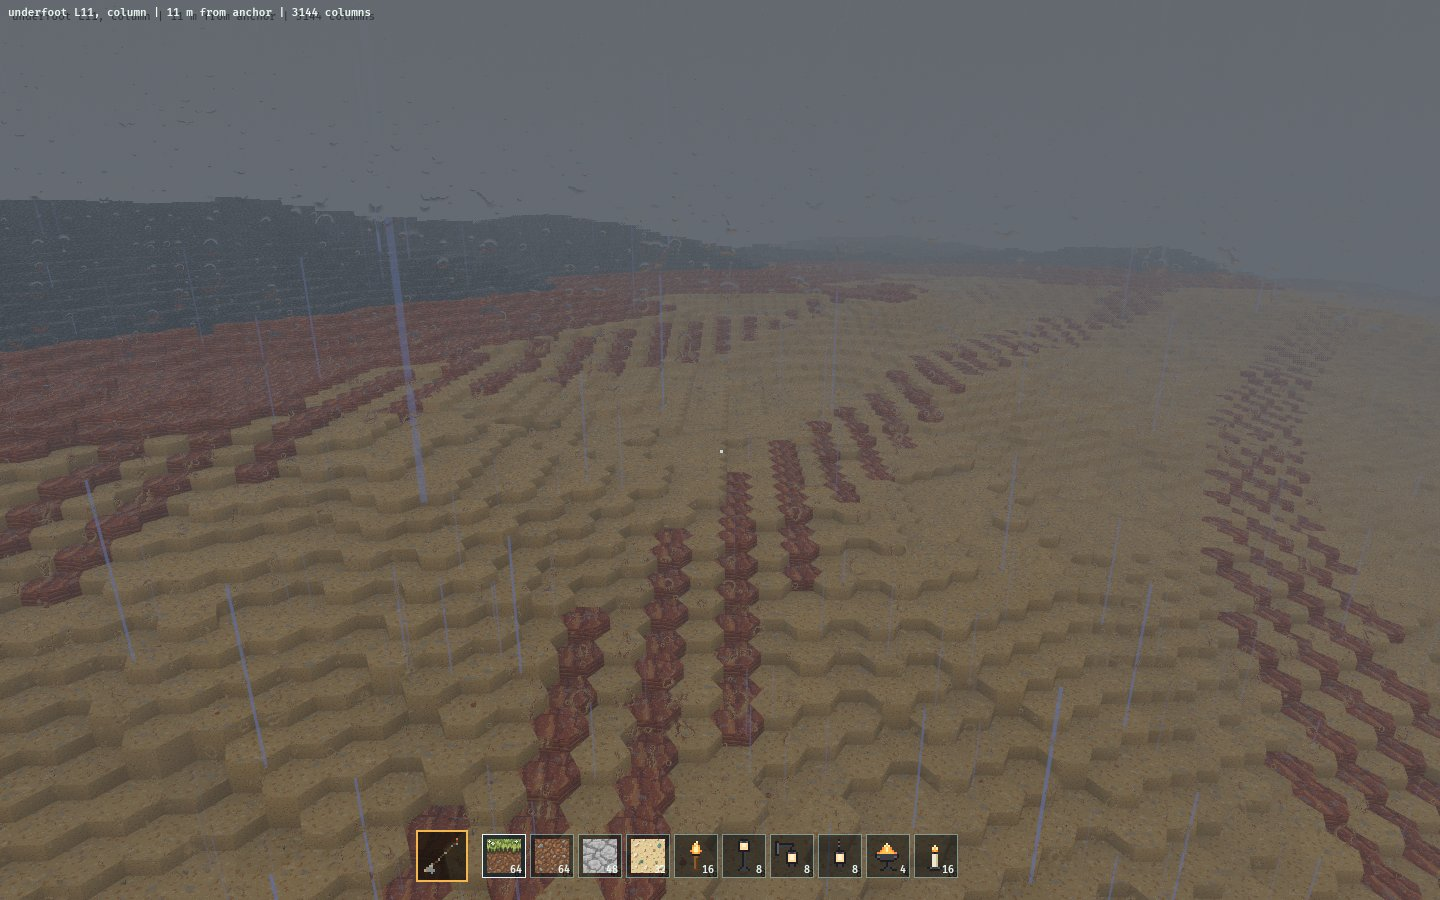
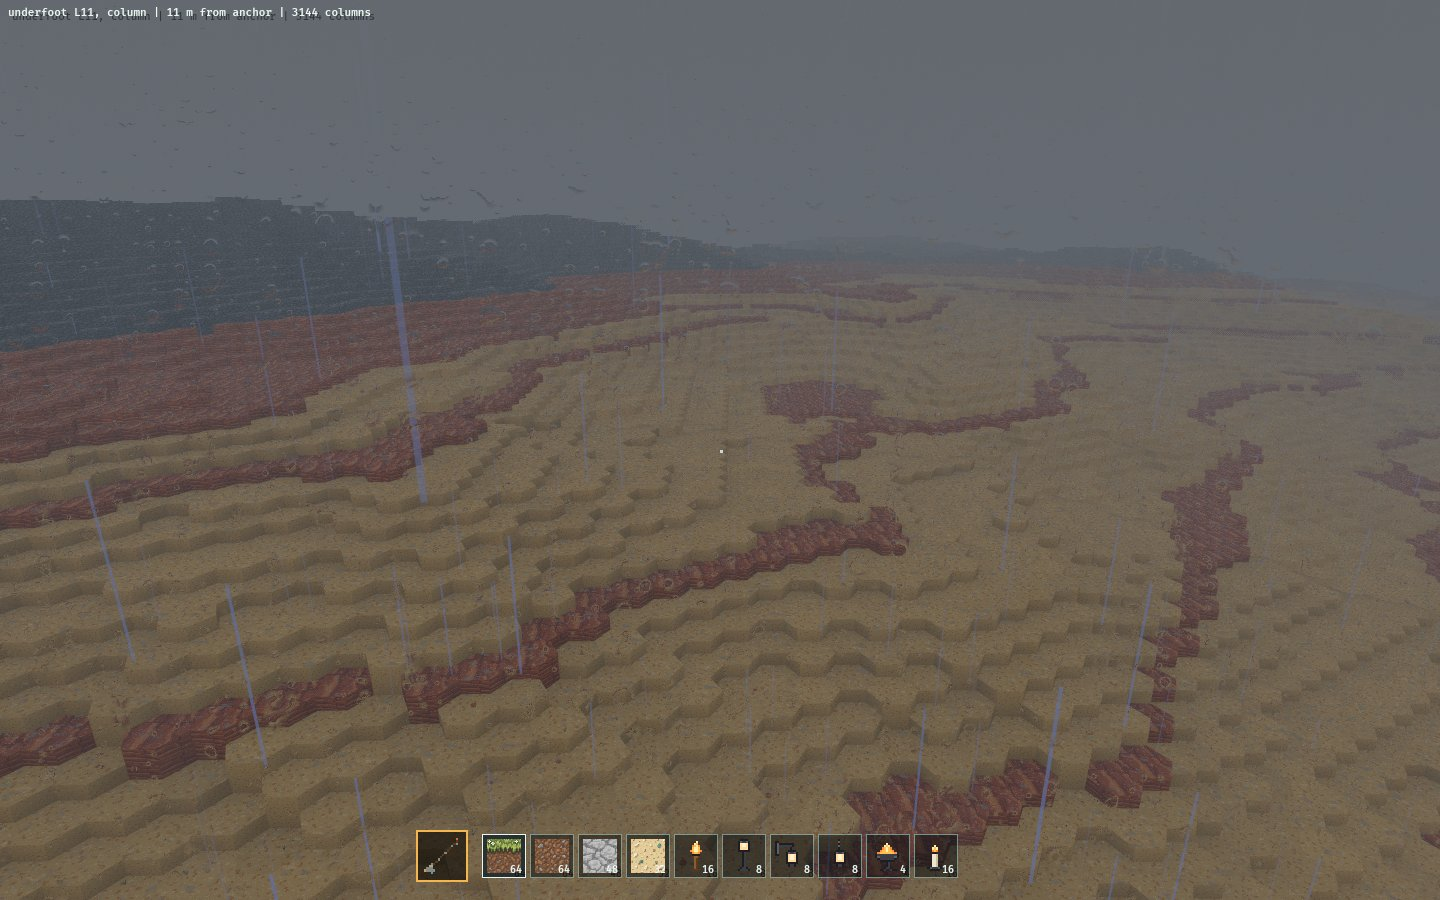
bigger-biomes 3.4: the contour rock in the game, and the spec synced
docs/screenshots/bigger-biomes/: the desert from 40 m and the spawn's
view before (rock in straight east-west bands, kept as *-latitude.jpg)
and after (one metre of rock in every seven of height, wrapping each
terrace), and the spawn's continent on the map at 4 m a pixel, where the
rock reads as contour lines round every hill. The scenario "Rock follows
the contours" is synced into openspec/specs/world/terrain with its two
tests.

Claude-Session: https://claude.ai/code/session_01SztpvFkncDFbmhJsds55PW

diff --git a/docs/screenshots/bigger-biomes/README.md b/docs/screenshots/bigger-biomes/README.md
@@ -24,7 +24,7 @@ What moves is which biome the land is.
 | `map-planet-v4.jpg`, `map-planet-v5.jpg` | `--walk --menu map --map-layer biomes --map-mpp 40` | The whole planet's biome layer, with each biome's share of the land in the key. Version 4: fields 63%, desert 3%, jungle 3%, swamp 0%. Version 5: fields 23%, desert 23%, jungle 22%, swamp 1%. Beach (5%), mountains (2%) and tundra (24%) are the same in both, being set by height and latitude. The version 5 map matches the 750 m mockup the owner chose (`docs/screenshots/world-map/biomes-750.jpg`), within a point on each share. |
 | `map-v4.jpg`, `map-v5.jpg` | the same at `--map-mpp 12` | The spawn's continent, the player's marker in the middle. Version 4's fields hold scattered specks of desert and jungle a few hundred metres across; version 5's biomes are regions kilometres across, desert inland and jungle round the coasts. |
 | `orbit-v4.jpg`, `orbit-v5.jpg` | `--view orbit` | The planet from 7,800 m. At noon on day 0 both settled climates put one large cloud mass over the spawn's continent; the land at the rim shows version 5's desert as orange ground where version 4's is green. |
-| `surface-v4.jpg`, `surface-v5.jpg` | `--view surface` | 90 m over the spawn, looking east. Version 4: fields and scattered trees up to grey stone. Version 5: a desert runs from the spawn's field to the same grey stone, with the east-west rock bands of survey G1 across it. |
+| `surface-v4.jpg`, `surface-v5.jpg` | `--view surface` | 90 m over the spawn, looking west (the view's "tangent" is `Y x up`). Version 4: fields and scattered trees up to grey stone. Version 5: a desert runs from the spawn's field to the same grey stone, its rock along the contours (G1, below); `surface-v5-latitude.jpg` is the same view with the rock in east-west bands, as version 5 was first built. |
 | `spawn-v4.jpg`, `spawn-v5.jpg` | `--walk` | Eye level at the spawn: the same field (73 m up, dry grass, `tests::an_old_worlds_spawn_column_is_the_ground_it_was`), with desert on the hills behind it in version 5. |
 
 ## Version 5's biomes from inside
@@ -37,7 +37,7 @@ column view standing over the spawn are capture instruments added for these
 
 | file | nearest | what it shows |
 | --- | ---: | --- |
-| `biome-desert.jpg` | 128 m | Sand with the rock bands of survey G1 running east-west, bare stone beyond. |
+| `biome-desert.jpg` | 128 m | Sand with its rock along the contours, one metre in every seven of height wrapping each terrace (G1, below), bare stone beyond. `biome-desert-latitude.jpg` is the same view before, the rock in straight east-west bands. |
 | `biome-jungle.jpg` | 853 m | Dense jungle trees to the horizon, desert past its edge. |
 | `biome-fields.jpg` | 108 m | Grass and scattered trees, desert on the rise behind. |
 | `biome-swamp.jpg` | 1,288 m | Low wet ground under jungle trees, with swamp water. |
@@ -53,9 +53,14 @@ column view standing over the spawn are capture instruments added for these
   4's has full cover and no rain. The weather replays from the shipped state,
   so every new world opens the same way. It is not a fault, but it is the
   first thing a player sees; the owner is told.
-- **The desert's rock stripes show far more** now that deserts are regions:
-  the bands run straight east-west across the whole desert east of the spawn.
-  Version 5 does not change them; survey G1 asks whether they go.
+- **The desert's rock stripes showed far more** once deserts were regions:
+  straight east-west bands across the whole desert beside the spawn
+  (`biome-desert-latitude.jpg`, `surface-v5-latitude.jpg`). The owner:
+  "rock stripes should follow contour lines which are by height", so version
+  5 lays one metre of rock in every seven of height (`bigger-biomes` decision
+  7, survey G1). `map-close-contours.jpg` is the spawn's continent at 4 m a
+  pixel on the planet layer: the rock reads as contour lines round every
+  hill. Version 4 keeps its bands.
 - **The straight line where the tundra begins** is the cold band, a line of
   latitude. It was there in version 4 and in the approved mockup.
 - **Beach reads 5% of the land in the game and 10% in the mockup**, in both

diff --git a/openspec/changes/bigger-biomes/tasks.md b/openspec/changes/bigger-biomes/tasks.md
@@ -24,7 +24,7 @@ It goes with step 2a. The owner's choice is made on the `world-map` mockup
 - [x] 3.2 (Decision 5a: the planned walk counts were measured and are what a 3,000 m field gives, not 750 m; "bigger" is tested as `the_biomes_are_about_four_times_wider`, 3.3 edges a kilometre against 13.6, which version 4 fails, beside the kept kilometre test and `grass_is_not_the_majority_on_five_seeds`.) ~~The walk tests become 4 km (three in four cross a biome) and 1 km (a third stay in one).~~ The shares test runs the shipped seed and four others. Verify: all three pass on version 5, and the width test fails on version 4, which proves it tests the change.
 - [x] 3.3 (Synced 2026-09-28, each scenario naming its test, and the restart added to the generator requirement as a scenario. `terrain-feature-scale`'s stale copy of the biome requirement is dropped from its delta, which failed validation once the main spec moved on.) Sync the two modified requirements into `openspec/specs/world/terrain` and `openspec/specs/planet/terrain`, naming each test. Verify: `openspec validate --all`.
 
-- [ ] 3.4 (Decision 7, survey G1.) `strata_m` in `TerrainConfig`, `None` for version 4 and `Some(7.0)` for version 5: a desert's rock and a swamp's water follow the height, not the latitude. Verify: a digest of version 4's top blocks, taken before the change, still matches; on version 5 every desert cell at one height has the same top block; the desert's rock is still about 1 in 7 of it; captures of the desert and the map.
+- [x] 3.4 (Built 2026-09-28: `strata_m`, version 4 `None`, version 5 `Some(7.0)`. `planet_gen::tests::version_4_keeps_its_top_blocks` pins version 4's top blocks by a digest taken before the change; `a_deserts_rock_follows_the_contours` finds no height with both sand and rock on version 5, where version 4 has such heights, and the rock at 7 to 25% of the desert (measured 13.9%, 13.6% before). A swamp's water is 40.8% of it, 17.8% before. `docs/screenshots/bigger-biomes/`: the desert and the spawn's view before and after, and the map at 4 m a pixel.) (Decision 7, survey G1.) `strata_m` in `TerrainConfig`, `None` for version 4 and `Some(7.0)` for version 5: a desert's rock and a swamp's water follow the height, not the latitude. Verify: a digest of version 4's top blocks, taken before the change, still matches; on version 5 every desert cell at one height has the same top block; the desert's rock is still about 1 in 7 of it; captures of the desert and the map.
 
 ## 4. Look and cost
 

diff --git a/openspec/specs/world/terrain/spec.md b/openspec/specs/world/terrain/spec.md
@@ -68,6 +68,14 @@ biome SHALL hold the majority of the temperate land.
   generator with the 188 m moisture field does at the same thresholds
   (`planet_gen::tests::the_biomes_are_about_four_times_wider`)
 
+#### Scenario: Rock follows the contours
+- **WHEN** a version 5 desert is sampled
+- **THEN** every cell at one height has the same top block, so the rock lies
+  in bands along the contours rather than along the latitude
+- **AND** version 4's desert keeps the top blocks it had
+  (`planet_gen::tests::a_deserts_rock_follows_the_contours`,
+  `planet_gen::tests::version_4_keeps_its_top_blocks`)
+
 #### Scenario: Grass is not the majority
 - **WHEN** the temperate land (outside the cold band and below the mountain
   elevation) is sampled on the shipped seed and on four other seeds
